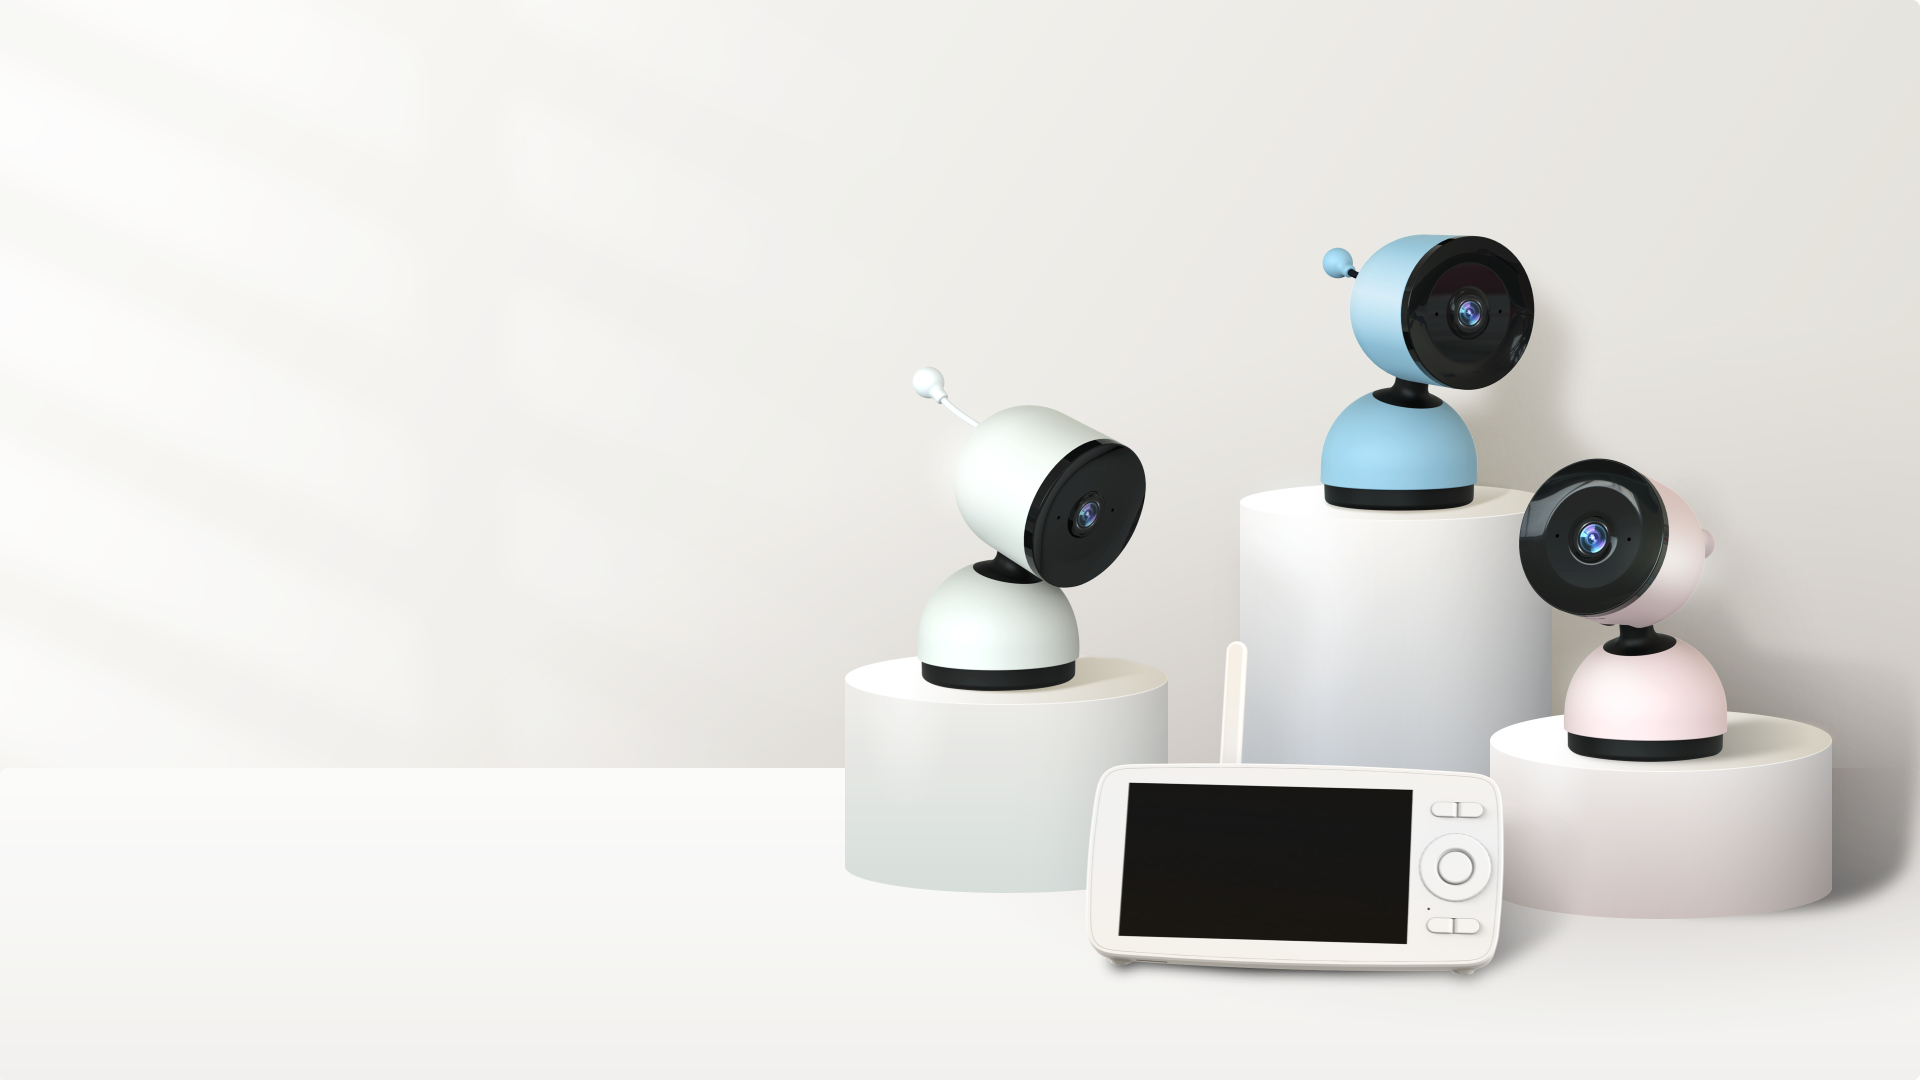
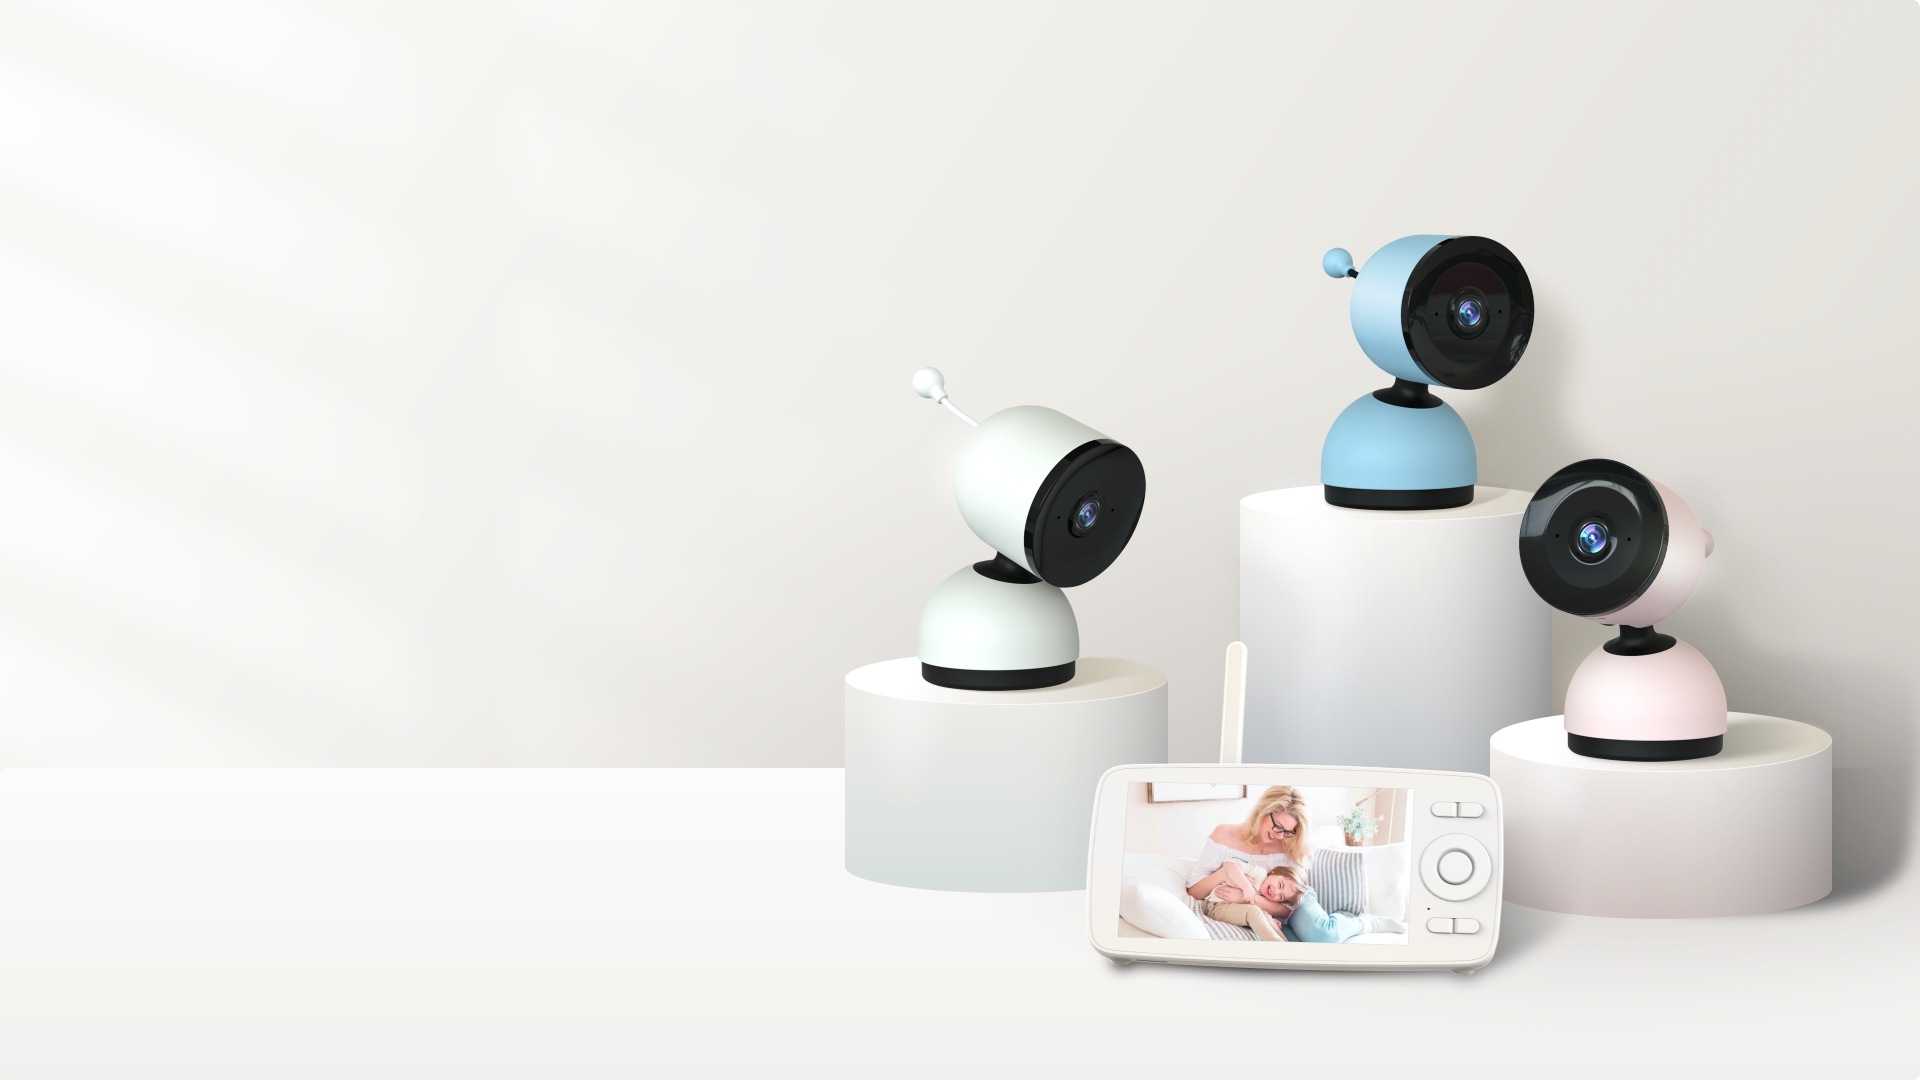
修改banner

Changed region(s): [[0.5625, 0.7028, 0.75, 0.8861]]

diff --git a/src/views/product/index.vue b/src/views/product/index.vue
@@ -15,7 +15,24 @@
 
 
         <div class="banner">
-            <img src="@/assets/img/product-banner.png" alt="">
+            <el-carousel ref="carousel" :height="660 / 1920 * 100 + 'vw'" :interval="5000" arrow="never" :loop="false">
+                <el-carousel-item v-for="(item, index) in productData.bannerList" :key="index">
+                    <div class="banner-item">
+                    <img :src="item.img" alt="">
+                    <div class="info">
+                            <h3>{{ item.title }}</h3>
+                            <p>{{ item.subTitle }}</p>
+                        </div>
+                    </div>
+                </el-carousel-item>
+            </el-carousel>
+
+            <div class="arrow-left" @click="handlePrev">
+          <img src="@/assets/img/arrow-white.png" alt="">
+        </div>
+        <div class="arrow-right" @click="handleNext">
+          <img src="@/assets/img/arrow-white.png" alt="">
+        </div>
         </div>
 
         <div class="consumption classification" ref="consumption">
@@ -69,6 +86,7 @@ import { useWindowScroll } from '@vueuse/core'
 import card from '@/components/card/index.vue'
 import cards from '@/components/cards/index.vue'
 import { productData } from '@/mock/productPageData'
+import { ElCarousel } from 'element-plus'
 import eventBus from '@/eventBus'
 
 const nav = ref([
@@ -143,6 +161,16 @@ onUnmounted(() => {
     eventBus.off('productPageChange')
 })
 
+const carousel = ref(null)
+function handlePrev() {
+  let obj = carousel.value as any
+  obj.prev()
+}
+function handleNext() {
+  let obj = carousel.value as any
+  obj.next()
+}
+
 /**
  * @description 重定向到指定位置
  */
@@ -199,11 +227,12 @@ function handleRoute() {
 
         .logo {
             cursor: pointer;
-
+            position: relative;
             img {
                 width: 222px;
                 height: auto;
             }
+           
         }
 
         ul {
@@ -247,7 +276,7 @@ function handleRoute() {
         width: 100%;
         height: 660px;
         overflow: hidden;
-
+        position: relative;
         img {
             width: 100%;
             height: 100%;
@@ -256,6 +285,58 @@ function handleRoute() {
         img:hover {
             transform: scale(1.02);
         }
+        .banner-item{
+            height: 660px;
+        }
+        .info{
+            position: absolute;
+            left: 50%;
+            top: 230px;
+            transform: translateX(-50%);
+            color: #fff;
+            h3{
+                font-size: 55px;
+            }
+            p{
+                font-size: 16px;
+                padding-top: 20px;
+            }
+        }
+            .arrow-right,
+    .arrow-left {
+      position: absolute;
+      top: 50%;
+      cursor: pointer;
+
+      img {
+        width: 38px;
+        height: 38px;
+      }
+    }
+
+    .arrow-right {
+      transform: rotate(180deg);
+      right: 100px;
+    }
+
+    .arrow-left {
+      left: 100px;
+    }
+
+    :deep(.el-carousel__indicators) {
+      li button {
+        width: 12px;
+        height: 12px;
+        border-radius: 50%;
+        background: #878787;
+      }
+
+      .is-active {
+        button {
+          background: #878787;
+        }
+      }
+    }
     }
 
 

diff --git a/src/mock/productPageData.ts b/src/mock/productPageData.ts
@@ -1,8 +1,9 @@
 
 interface productPageType {
-    consumptionData: productType[], // 
-    wirelessData: productType[],
-    conventionData: productType[],
+    bannerList:bannerItem[],//轮播
+    consumptionData: productType[], // 低功耗
+    wirelessData: productType[], //无线套装
+    conventionData: productType[],//常规产品
     programmeData: productType[], // 方案类数据
 }
 
@@ -16,6 +17,11 @@ interface productType {
     id: number, // 产品id   重要   用于和 产品页数据联动
     img: string,// 产品图片
 }
+interface bannerItem{
+    img:string,//轮播图
+    title:string,// 标题
+    subTitle:string,//副标题
+}
 /**
  * @name productData
  * @description 产品页数据配置
@@ -25,6 +31,8 @@ interface productType {
 /**
  * 未使用的图片需要隐藏
  */
+import banner1 from '@/assets/img/product-banner1.jpg'
+
 // import product1 from '@/assets/product/product1.jpg'
 // import product2 from '@/assets/product/product2.jpg'
 // import product4 from '@/assets/product/product4.jpg'
@@ -44,29 +52,37 @@ import product17 from '@/assets/product/product17.jpg'
 import product18 from '@/assets/product/product18.jpg'
 
 export const productData: productPageType = {
+    bannerList:[
+        {
+            img:banner1,
+            title:'RISIKESTA',
+            subTitle:'产品的路，有起有伏，但前进的脚步从未停止'
+        },
+        
+    ],
 
     consumptionData: [
         {
-            name: "电池4G高清摄像机",
-            desc: '免插电、开机即用',
+            name: "AI智能可视门铃",
+            desc: '免插线、免打孔、开机即用',
             id: 4,
             img: product10
         },
         {
-            name: "电池4G高清摄像机",
-            desc: '免插电、开机即用',
+            name: "电池高清摄像机",
+            desc: '免插线、可转动、安装简易、开机即用',
             id: 3,
             img: product11
         },
         {
-            name: "电池4G高清摄像机",
-            desc: '免插电、开机即用',
+            name: "太阳能4G高清摄像机",
+            desc: '纯无线、超大容量电池、自动拨号、开机即用',
             id: 7,
             img: product18
         },
         {
-            name: "电池4G高清摄像机",
-            desc: '免插电、开机即用',
+            name: "AI智能可视门铃",
+            desc: '免插线、免打孔、超大视角、开机即用',
             id: 5,
             img: product12
         },

diff --git a/src/mock/homeData.ts b/src/mock/homeData.ts
@@ -52,8 +52,8 @@ export const homeData: homeType = {
         {
             img: banner2,
             subTitle: '没网也能用的摄像机',
-            title: '智能云台机',
-            desc: '双频wifi｜超大视角｜双向语音｜一键呼叫｜2K高清',
+            title: '家庭/商铺安防套包',
+            desc: '安装简便｜无需网线｜智能侦测｜全天录像｜2K高清',            
             id: 8,
         },
         {
@@ -72,7 +72,7 @@ export const homeData: homeType = {
         },
         {
             img: banner5,
-            subTitle: '纯无线、太阳能供电、自动拨号开机即用',
+            subTitle: '纯无线、太阳能供电、自动拨号、开机即用',
             title: '太阳能4G高清摄像机',
             desc: '4G全网通｜12寸太阳能板｜2.5寸小巧尺寸｜2K高清',
             id: 7,
@@ -80,8 +80,8 @@ export const homeData: homeType = {
         {
             img: banner1,
             subTitle: '双向云台、双灯光源',
-            title: '家庭/商铺安防套包',
-            desc: '安装简便｜无需网线｜智能侦测｜全天录像｜2K高清',
+            title: '智能云台机',
+            desc: '双频wifi｜超大视角｜双向语音｜一键呼叫｜2K高清',
             id: 1,
         },
     ],

diff --git a/src/views/home/index.vue b/src/views/home/index.vue
@@ -5,7 +5,7 @@
       <div class="banner">
         <el-carousel ref="carousel" :height="984 / 1920 * 100 + 'vw'" :interval="5000" arrow="never" :loop="false">
           <el-carousel-item v-for="(item, index) in homeData.bannerList" :key="index">
-            <div class="banner-item" :class="(index + 1) % 2 == 0 ? 'banner-item-black' : ''">
+            <div class="banner-item">
               <img :src="item.img" alt="">
               <div class="banner-info">
                 <p>{{ item.subTitle }}</p>
